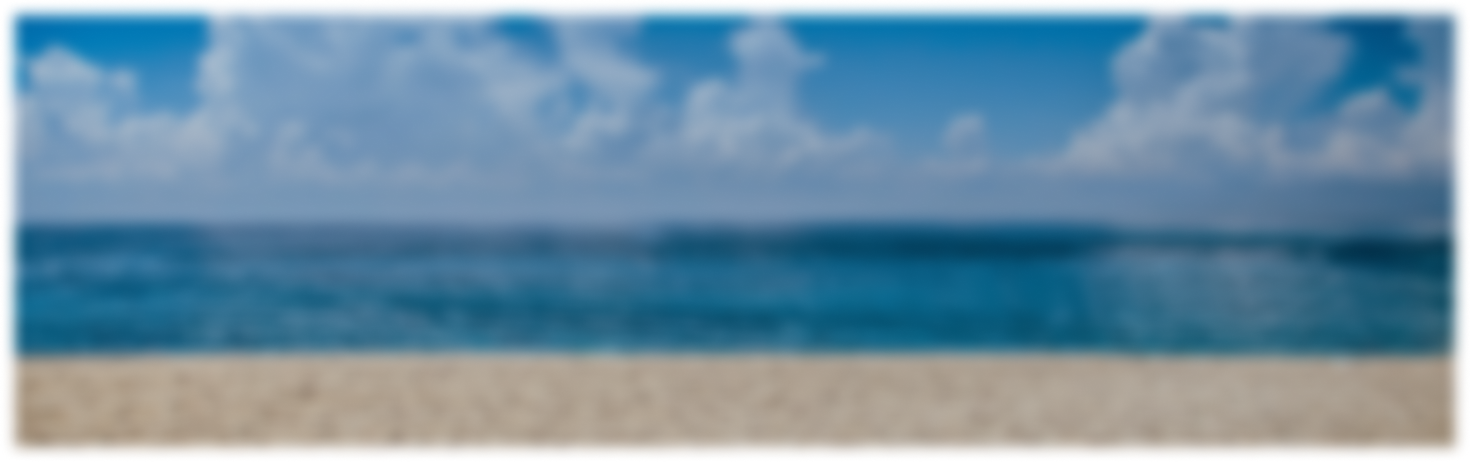
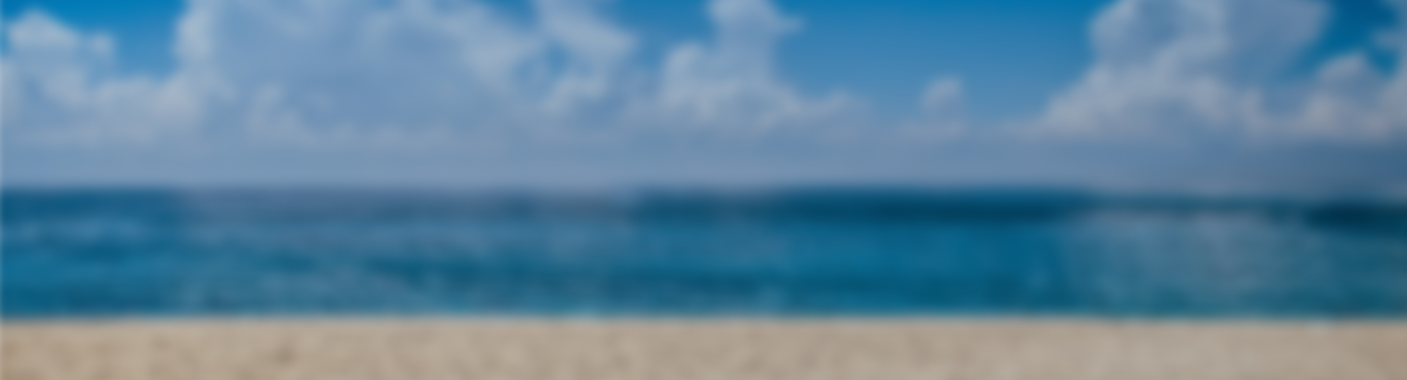
navbar quase completa

diff --git a/index.html b/index.html
@@ -5,7 +5,6 @@
     <meta http-equiv="X-UA-Compatible" content="IE=edge">
     <meta name="viewport" content="width=device-width, initial-scale=1.0">
     <link rel="stylesheet" href="./stylesheet/style.css">
-    <link href="https://cdn.jsdelivr.net/npm/bootstrap@5.3.0-alpha3/dist/css/bootstrap.min.css" rel="stylesheet" integrity="sha384-KK94CHFLLe+nY2dmCWGMq91rCGa5gtU4mk92HdvYe+M/SXH301p5ILy+dN9+nJOZ" crossorigin="anonymous">
     <link rel="preconnect" href="https://fonts.googleapis.com">
     <link rel="preconnect" href="https://fonts.gstatic.com" crossorigin>
     <link href="https://fonts.googleapis.com/css2?family=Karma&display=swap" rel="stylesheet">
@@ -16,37 +15,16 @@
     <header>
         <!--======================================================SECÇÃO 1======================================================================-->
         <section>
-            <nav class="navbar or navbar-expand-lg navclass position-absolute">
-                <div class="container-fluid">
-                  <a class="navbar-brand" href="#"><h1 class="Wave_Bank">Wave Bank</h1></a>
-                  <button class="navbar-toggler" type="button" data-bs-toggle="collapse" data-bs-target="#navbarNav" aria-controls="navbarNav" aria-expanded="false" aria-label="Toggle navigation">
-                    <span class="navbar-toggler-icon"></span>
-                  </button>
-                  <div class="collapse navbar-collapse" id="navbarNav">
-                    <ul class="navbar-nav">
-                      <li class="nav-item">
-                        <a class="nav-link active" aria-current="page" href="#"><p class="Nossos_serviços">Nossos Serviços</p></a>
-                      </li>
-                      <li class="nav-item">
-                        <a class="nav-link active" href="#"><p class="Portfolio">Portfólio</p></a>
-                      </li>
-                      <li class="nav-item">
-                        <a class="nav-link active" href="#"><p class="Sobre_nos">Sobre nós</p></a>
-                      </li>
-                      <li class="nav-item">
-                        <a class="nav-link active"><p class="Contate_nos">Contate nos</p></a>
-                      </li>
-                    </ul>
-                  </div>
-                </div>
+            <nav class="navbar">
+                <div class="navbutton">Nossos Serviços</div>
+                <div class="navbutton">Portfólio</div>
+                <div class="navbutton">Sobre Nós</div>
+                <div class="navbutton">Nossa Equipe</div>
+                <div class="navbutton">Contate-Nos</div>
               </nav>
+              <img src="./images/photo_5087318853385562982_y.jpg" alt="Imagem1" width="100%" height="432px">
         </section>
     </header>
-
-    <section>
-      <div class="image"></div>
-      <img src="" alt="" class="imagemlogo">
-    </section>
 
 
 

diff --git a/stylesheet/style.css b/stylesheet/style.css
@@ -3,15 +3,106 @@ body {
     padding: 0;
 }
 
-.navclass{
-    background-color: rgba(255, 255, 255, 0.144);
+.navbar{
+    position: absolute;
     font-family: 'Karma', serif;
-    position: relative;
     width: 100%;
+    position: absolute;
+    height: 90px;
+    background: rgba(0, 0, 0, 0.3);
+    box-shadow: 0px 4px 0px rgba(0, 0, 0, 0.25);
+    
 }
 
-.image {
-    background-image: url('../images/beach-g0d27c1122_1920\ 1.png');
-    width: 100%;
-    height: 400px;
+.NossosServicos{
+    position: absolute;
+    width: 180px;
+    height: 60px;
+    left: 57px;
+    top: 14px;
+    background: rgba(0, 0, 0, 0.51);
+    box-shadow: 0px 4px 4px rgba(0, 0, 0, 0.25);
+    border-radius: 45px;
+    font-family: 'Karma';
+    font-style: normal;
+    font-weight: 700;
+    font-size: 23px;
+    line-height: 57px;
+    color: #FFFFFF;
+    text-align: center;
+}
+
+.Portfolio{
+    position: absolute;
+    width: 180px;
+    height: 60px;
+    left: 342px;
+    top: 15px;
+    background: rgba(0, 0, 0, 0.51);
+    box-shadow: 0px 4px 4px rgba(0, 0, 0, 0.25);
+    border-radius: 45px;
+    font-family: 'Karma';
+    font-style: normal;
+    font-weight: 700;
+    font-size: 23px;
+    line-height: 57px;
+    color: #FFFFFF;
+    text-align: center;
+
+    
+}
+
+.SobreNos{
+    position: absolute;
+    width: 180px;
+    height: 60px;
+    left: 632px;
+    top: 14px;
+    background: rgba(0, 0, 0, 0.51);
+    box-shadow: 0px 4px 4px rgba(0, 0, 0, 0.25);
+    border-radius: 45px;
+    font-family: 'Karma';
+    font-style: normal;
+    font-weight: 700;
+    font-size: 23px;
+    line-height: 57px;
+    color: #FFFFFF;
+    text-align: center;
+}
+
+.NossaEquipe{
+    position: absolute;
+    width: 180px;
+    height: 60px;
+    left: 911px;
+    top: 15px;
+    background: rgba(0, 0, 0, 0.51);
+    box-shadow: 0px 4px 4px rgba(0, 0, 0, 0.25);
+    border-radius: 45px;
+    font-family: 'Karma';
+    font-style: normal;
+    font-weight: 700;
+    font-size: 23px;
+    line-height: 57px;
+    color: #FFFFFF;
+    text-align: center;
+
+}
+
+.Contatenos{
+    position: absolute;
+    width: 180px;
+    height: 60px;
+    left: 1216px;
+    top: 14px;
+    background: rgba(0, 0, 0, 0.51);
+    box-shadow: 0px 4px 4px rgba(0, 0, 0, 0.25);
+    border-radius: 45px;
+    font-family: 'Karma';
+    font-style: normal;
+    font-weight: 700;
+    font-size: 23px;
+    line-height: 57px;
+    color: #FFFFFF;
+    text-align: center;
 }
